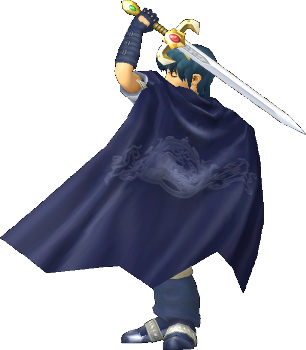
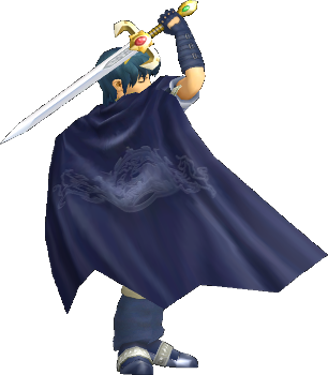
Made coordinate generation algorithm center characters for singles. Checks for singles before getting coordinates. Reversed Marth Images.

diff --git a/server/public/scripts/canvasImpl.js b/server/public/scripts/canvasImpl.js
@@ -277,7 +277,7 @@ function drawCharacter(imgPath, charNumber){
 			width *= enhance;
 		}
 		
-		var coords = getCharacterCoordinates(canvas, img, charNumber);
+		var coords = getCharacterCoordinates(canvas, img, charNumber, isSingles());
 		if(charNumber === 1)
 			ctx.drawImage(img, coords.x, coords.y, width, height);				
 		else if(charNumber === 2){
@@ -399,10 +399,10 @@ function getNameplateMidY(imgUrl, canvas, side){
 	/** NAMEPLATES ON BOTTOM **/
 	//y = canvas.height - 10;
 	
-	
 	return {x:x, y:y};
 };
 
+/** DOWNLOAD IMAGES **/
 document.getElementById('downloadBtn').addEventListener('click', function(){
 	document.getElementById('downloadProxy').click();
 });
@@ -410,9 +410,9 @@ document.getElementById('downloadBtn').addEventListener('click', function(){
 document.getElementById('downloadProxy').addEventListener('click', function() {
     var name = '';
 	if(player3 && player4 && player1 && player2)
-		name = 'Mathchup ' + player1 + " & " + player3 + " vs " + player2 + " & " + player4 + ".png";
+		name = 'Mathchup ' + player1 + " & " + player3 + " vs " + player2 + " & " + player4 + "_" + tournamentRound + ".png";
 	else if(player1 && player2)
-		name = 'Matchup ' + player1 + " vs " + player2 + ".png";
+		name = 'Matchup ' + player1 + " vs " + player2 + "_" + tournamentRound + ".png";
 	else name = "Matchup.png";
 	downloadCanvas(this, 'previewCanvas', name);
 }, false);

diff --git a/server/public/scripts/config.js b/server/public/scripts/config.js
@@ -7,16 +7,26 @@ var p4x = null; var p4y = 50;
 var xOffset = 120;
 var yOffset = 15;
 
-var getCharacterCoordinates = function(canvas, image, characterNumber){
+var getCharacterCoordinates = function(canvas, image, characterNumber, isSingles){
 	this.canvas = canvas;
 	switch(characterNumber){
 	case 1:
-		p1x = canvas.width/2 - image.width - xOffset;
-		p1y = canvas.height - image.height + yOffset;
+		if(isSingles){
+			p1x = (canvas.width * 1/4) - image.width;//- image.width - xOffset;
+			p1y = canvas.height - image.height + yOffset;
+		}
+		else{
+			
+		}
 		return {x:p1x, y:p1y};
 	case 2:
-		p2x = canvas.width/2;
-		p2y = canvas.height - image.height + yOffset;
+		if(isSingles){
+			p2x = canvas.width * (3/4) - image.width/2;// + image.width ;// - xOffset;//- image.width;
+			p2y = canvas.height - image.height + yOffset;			
+		}
+		else{
+			
+		}
 		return {x:p2x, y:p2y};
 	case 3:
 		p3x = -1 * xOffset;
